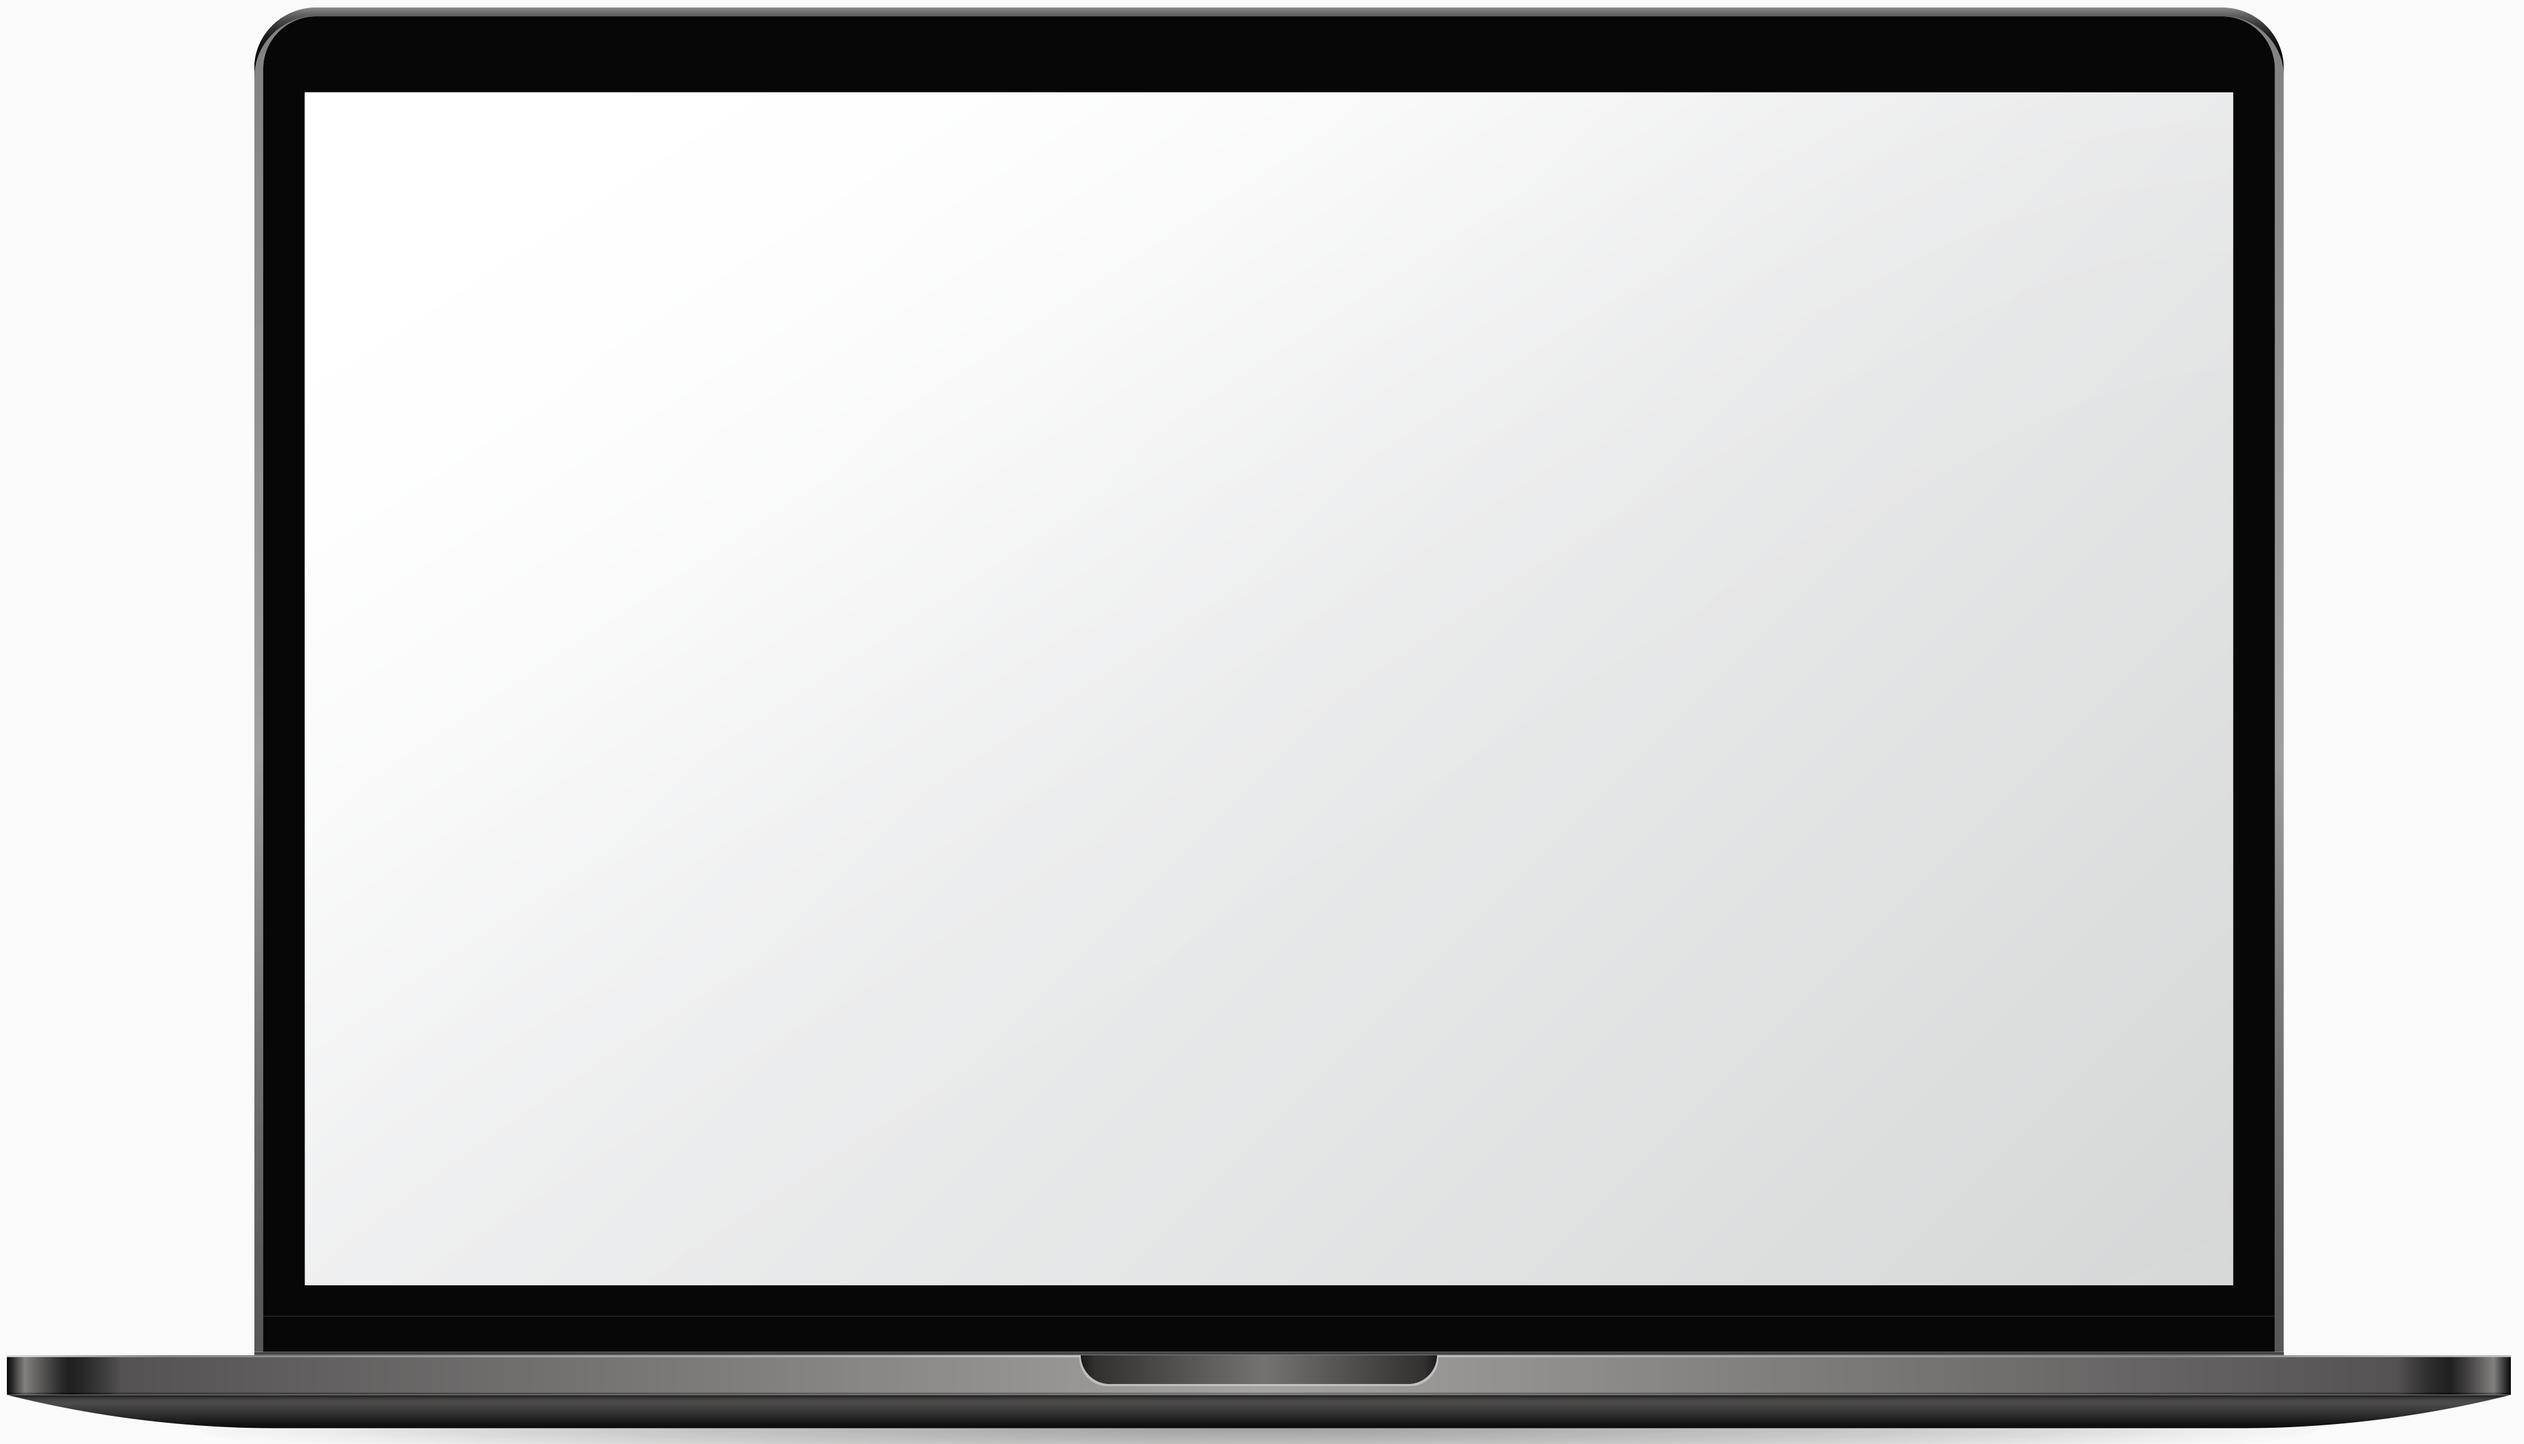
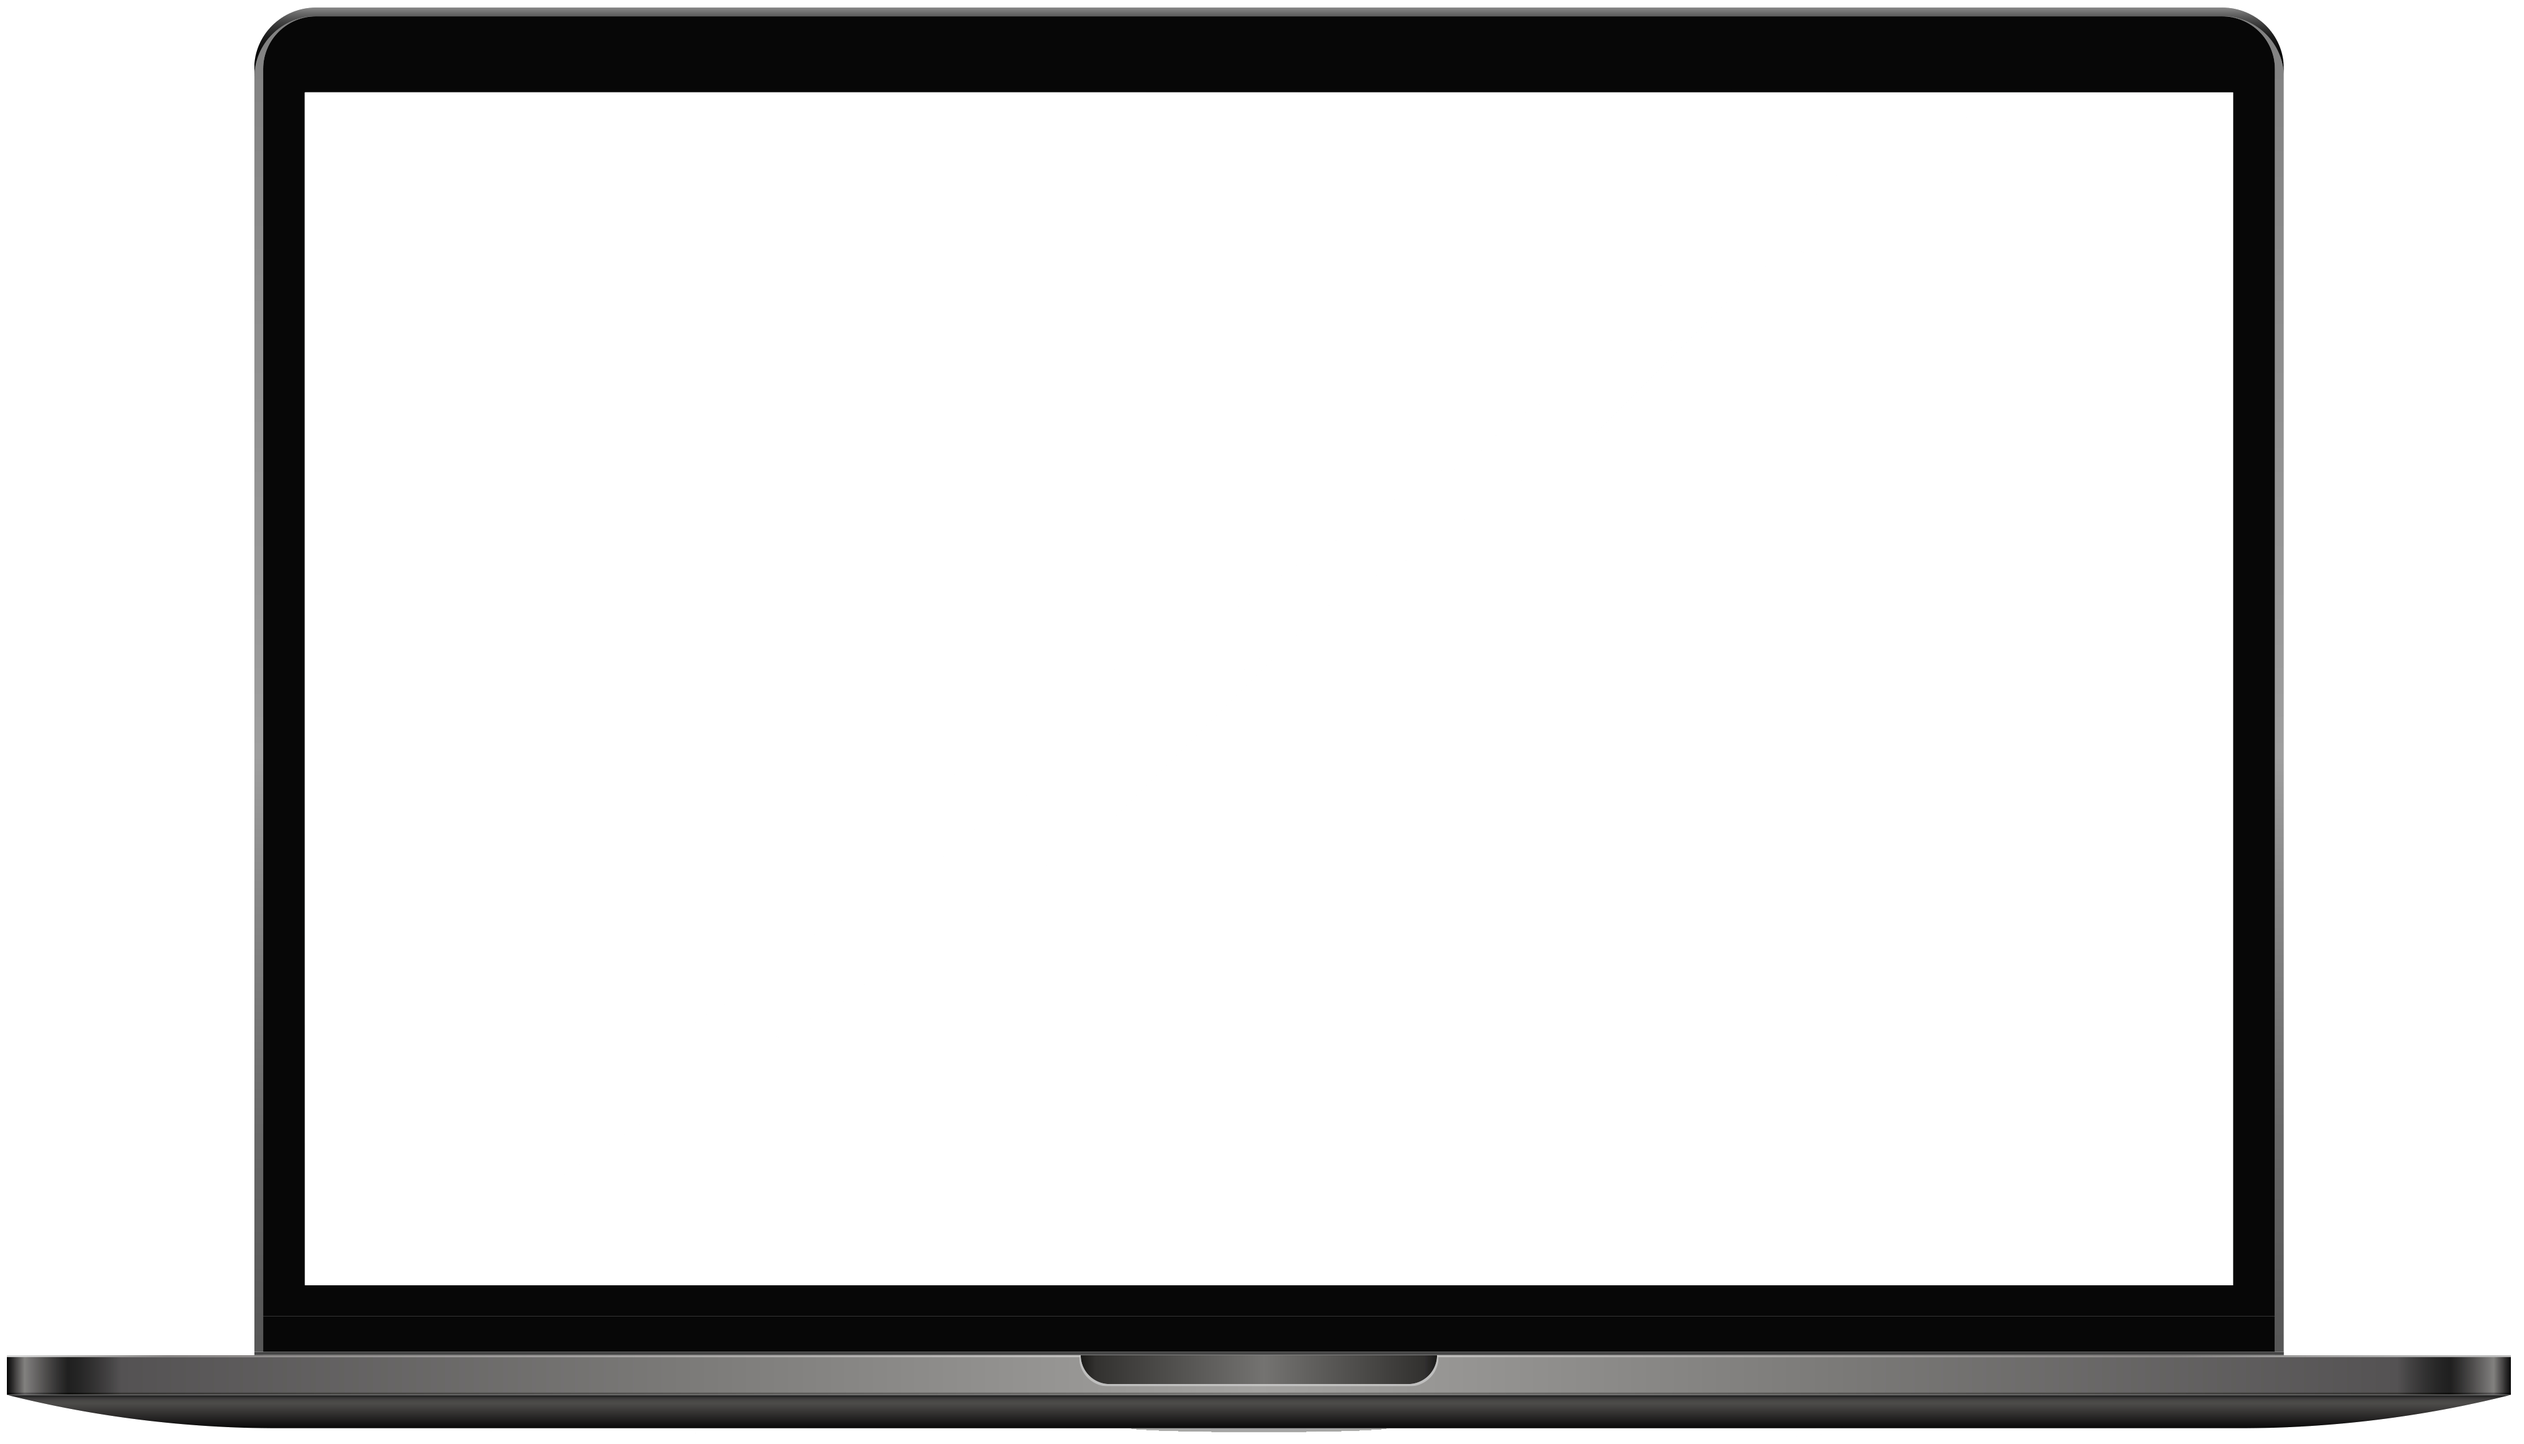
css bug fixed

Changed region(s): [[0.3744, 0.1246, 0.9049, 0.9035], [0.156, 0.9658, 0.8425, 1.0]]

diff --git a/app/globals.css b/app/globals.css
@@ -42,10 +42,26 @@ strong {
     color:var(--brandLightFontColor)
 }
 body {
+    position: relative;
     font-family: -apple-system,BlinkMacSystemFont,Segoe UI,Roboto,Oxygen,Ubuntu,Cantarell,Open Sans,Helvetica Neue,sans-serif;
     overflow-x: hidden;
     font-size: 16px;
     line-height: 30px;
+}
+body:after {
+    content: "";
+    background-image: url(../public/images/grids.jpg);
+    background-size: 100vw;
+    background-repeat: no-repeat;
+    margin: 0 auto;
+    background-position: center center; 
+    opacity: 0.1;
+    top: 0;
+    left: 0;
+    bottom: 0;
+    right: 0;
+    position: fixed;
+    z-index: -1;
 }
 
 .sub {
@@ -138,28 +154,12 @@ div.headerBlock {
     }
 }
 section.welcomePage {
-    position: relative;
     padding:80px 16px;
     display: flex;
     align-items: center;
     justify-content: center;
     flex-direction: column;
     text-align: center;
-}
-section.welcomePage:after {
-    content: "";
-    background-image: url(../public/images/grids.jpg);
-    background-size: cover;
-    background-repeat: no-repeat;
-    margin: 0 auto;
-    background-position: center center; 
-    opacity: 0.1;
-    top: 0;
-    left: 0;
-    bottom: 0;
-    right: 0;
-    position: absolute;
-    z-index: -1;  
 }
 div.welcomePageBlock {
     max-width: 900px;
@@ -339,29 +339,12 @@ div.promoBlock1 > ul > li:nth-child(even) {
     font-weight: 500;
 }
 section.experienceStory {
-    position: relative;
     margin: 0 auto;
     max-width: 1400px;
     box-sizing: border-box;
     padding:100px 16px;
     width: 100%;
 }
-section.experienceStory:after {
-    content: "";
-    background-image: url(../public/images/grids.jpg);
-    background-size: cover;
-    background-repeat: no-repeat;
-    margin: 0 auto;
-    background-position: center center; 
-    opacity: 0.1;
-    top: 0;
-    left: 0;
-    bottom: 0;
-    right: 0;
-    position: absolute;
-    z-index: -1;  
-}
-
 section.experienceStory > h1 {
     text-align: center;
 }
@@ -554,7 +537,6 @@ div.listAction > div.listActionBlock {
 section.mockup {
     width:100%;
     min-height: 300px;
-    background-color: #fafafa;
     padding:100px 0;
 }
 section.mockup > h1 {
@@ -609,27 +591,11 @@ div.mockupBlock > img {
     height: auto;
 }
 /* Logo Scroller */
-section.logoMarqueeSection {
-    position: relative;
+.logoMarqueeSection {
     width: 100%;
     padding:120px 0;
     text-align: center;
   }
-  section.logoMarqueeSection:after {
-    content: "";
-    background-image: url(../public/images/grids.jpg);
-    background-size: cover;
-    background-repeat: no-repeat;
-    margin: 0 auto;
-    background-position: center center; 
-    opacity: 0.1;
-    top: 0;
-    left: 0;
-    bottom: 0;
-    right: 0;
-    position: absolute;
-    z-index: -1;  
-}
   .logoMarqueeSection > h1 {
     max-width: 700px;
     width:calc(100% - 32px);
@@ -880,7 +846,7 @@ div.stepBlock > p {
 }
 section.product {
     margin: 0 auto;
-    max-width: 1200px;
+    max-width: 1800px;
     width: calc(100% - 32px);
     min-height: 100px;
     padding:100px 0;

diff --git a/app/components/mockup.jsx b/app/components/mockup.jsx
@@ -7,7 +7,7 @@ const mockupBlock = () => {
                     <div className="mockUpConsole">
                         <img src="/images/interface.webp" alt="" />
                     </div>
-                    <img src="/images/mockup.webp" alt="" />
+                    <img src="/images/mockUp.webp" alt="" />
             </div>
         </section>
     );
